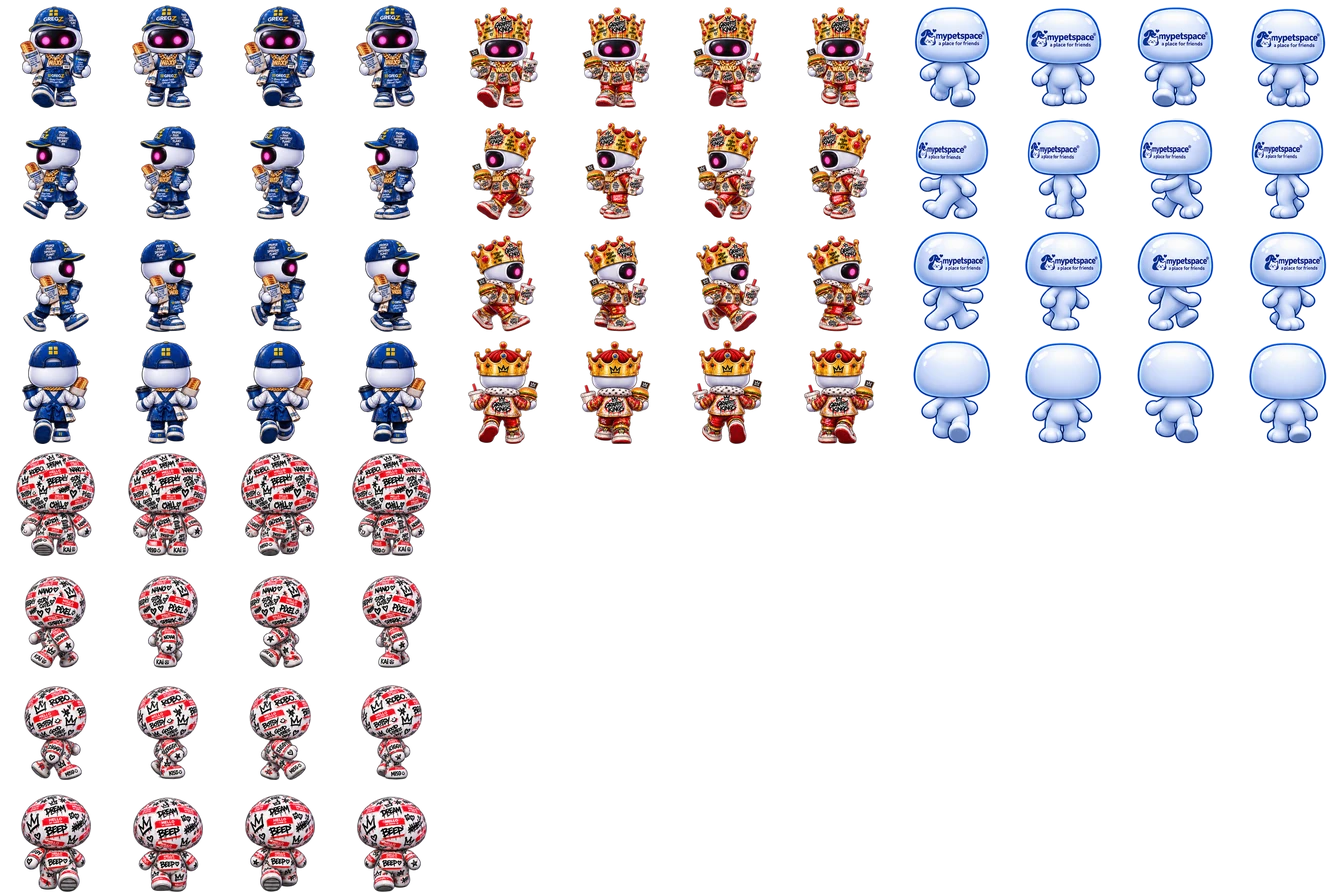
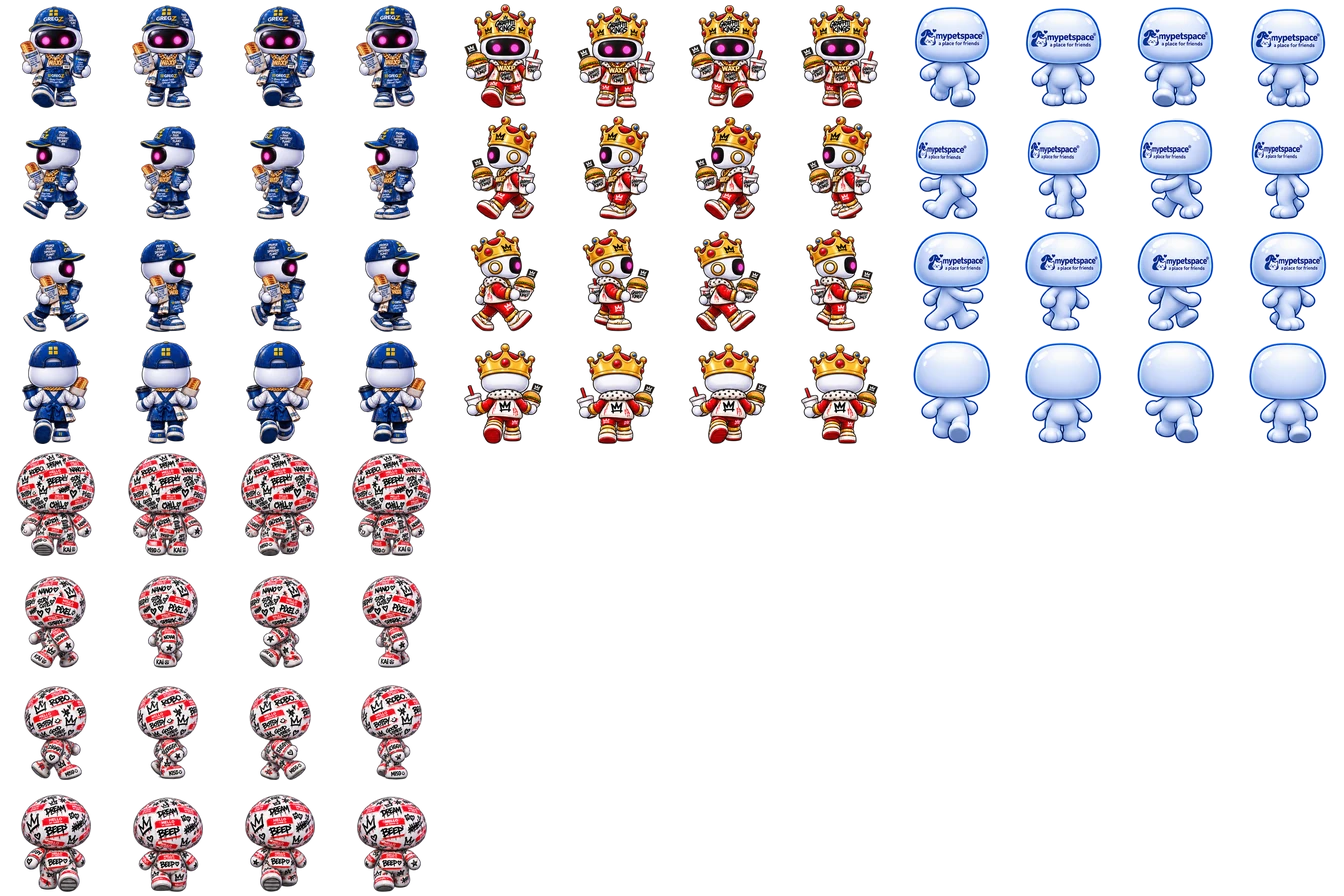
Use the corrected crowned robot walk cycle

Changed region(s): [[0.3438, 0.0, 0.6562, 0.5]]

diff --git a/games/block-topia/waterfront/entry.js b/games/block-topia/waterfront/entry.js
@@ -113,7 +113,7 @@ function bootMap(district) {
         };
       };
       window.waterfrontCharacterNames = Object.values(LEADERS).map(leader => leader.character);
-      if (!window.drawWaterfront) await script('harbor-art.js?v=69-guest-roamers');
+      if (!window.drawWaterfront) await script('harbor-art.js?v=70-guest-roamers');
       if (!window.waterfrontCrewBriefing) await script('crew-briefing.js?v=1');
       if (!window.waterfrontMapLoaded) await script('map.js?v=20-monster-info');
       if (!window.waterfrontMapLoaded) throw new Error('map_load_failed');

diff --git a/games/block-topia/waterfront/harbor-art.js b/games/block-topia/waterfront/harbor-art.js
@@ -113,7 +113,7 @@ const waterfrontRoamers = [
     ["delicious-again-peter", "Delicious Again Peter", 36],
     ["dude-got-game", "Dude Got Game", 35],
   ] },
-  { file: "roamers-guest-mascots.webp", cell: roamingAtlasCell, guest: true, cast: [
+  { file: "roamers-guest-mascots.webp?v=2", cell: roamingAtlasCell, guest: true, cast: [
     ["gregz-robot-chef", "GREGZ Robot Chef", 36],
     ["graffiti-kings-crowned-robot", "Graffiti Kings Crowned Robot", 38],
     ["mypetspace-mascot", "Mypetspace Mascot", 34],

diff --git a/games/block-topia/waterfront/index.html b/games/block-topia/waterfront/index.html
@@ -123,6 +123,6 @@ fieldset button{margin:.2rem .15rem .2rem 0}
 </main>
 <script data-cfasync="false" src="/js/api-config.js"></script>
 <script data-cfasync="false" src="/js/identity-gate.js"></script>
-<script data-cfasync="false" type="module" src="entry.js?v=44-guest-roamers"></script>
+<script data-cfasync="false" type="module" src="entry.js?v=45-guest-roamers"></script>
 </body>
 </html>

diff --git a/games/block-topia/waterfront/SPRITE-LIBRARY.md b/games/block-topia/waterfront/SPRITE-LIBRARY.md
@@ -63,7 +63,7 @@ The 24 additional guests use sheets supplied or generated in GK’s Waterfront s
 | [roamers-guest-street.webp](assets/atlases/roamers-guest-street.webp) | Police Captain (`50aba9af`), Riot Cop (`7e7dde5c`), Shamrock Cat (`cd2ba4be`), Basketball Cat (`7bdb3c68`) |
 | [roamers-guest-night.webp](assets/atlases/roamers-guest-night.webp) | Red Mask Cat (`57b98a72`), GK Niftyhead (`773aad35`), Joker (`71f5d1d3`), Higher Purpose (`19869d73`) |
 | [roamers-guest-artists.webp](assets/atlases/roamers-guest-artists.webp) | Charlie Buster (`016e6c5f`), Bone Idol Ink (`448135aa`), Delicious Again Peter (`562f7167`), Dude Got Game (`28f9fbd0`) |
-| [roamers-guest-mascots.webp](assets/atlases/roamers-guest-mascots.webp) | GREGZ Robot Chef (`0be4df7e`), Graffiti Kings Crowned Robot (`3949153f`), Mypetspace Mascot (`40ff3bb1`), Sticker Bot (`f2e92ac0`) |
+| [roamers-guest-mascots.webp](assets/atlases/roamers-guest-mascots.webp) | GREGZ Robot Chef (`0be4df7e`), Graffiti Kings Crowned Robot (`0ec0b565`), Mypetspace Mascot (`40ff3bb1`), Sticker Bot (`f2e92ac0`) |
 | [roamers-guest-pets.webp](assets/atlases/roamers-guest-pets.webp) | Wuffi (`caa541de`), Wuffi’s Companion (`3a034f64`), Laughing Rat (`a886db60`), Bratty (`bb482b4a`) |
 | [roamers-guest-curios.webp](assets/atlases/roamers-guest-curios.webp) | WAX Builder (`2aa55eaa`), Muscle Mascot (`84942711`), Gold-Winged Eyeball (`fea4de8d`), Purple-Winged Eyeball (`a7d01cb5`) |
 
